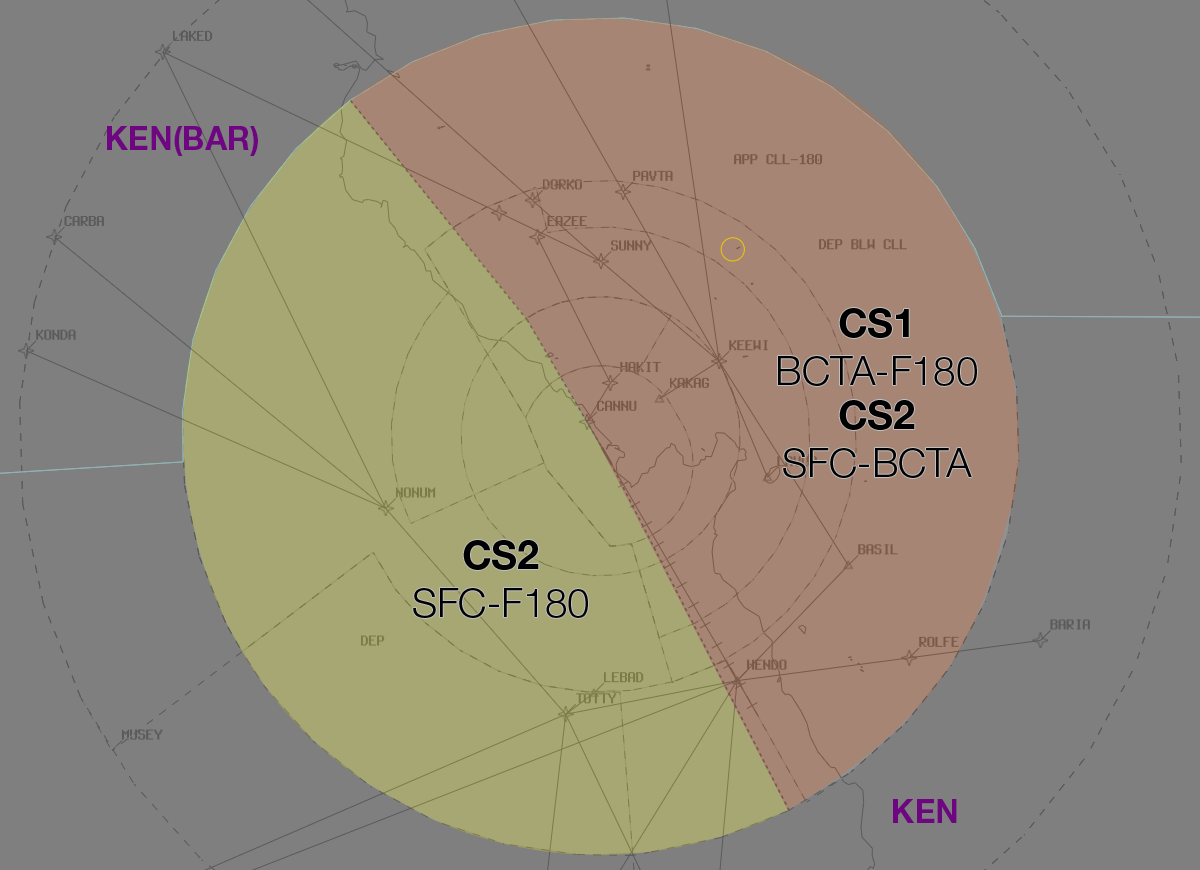
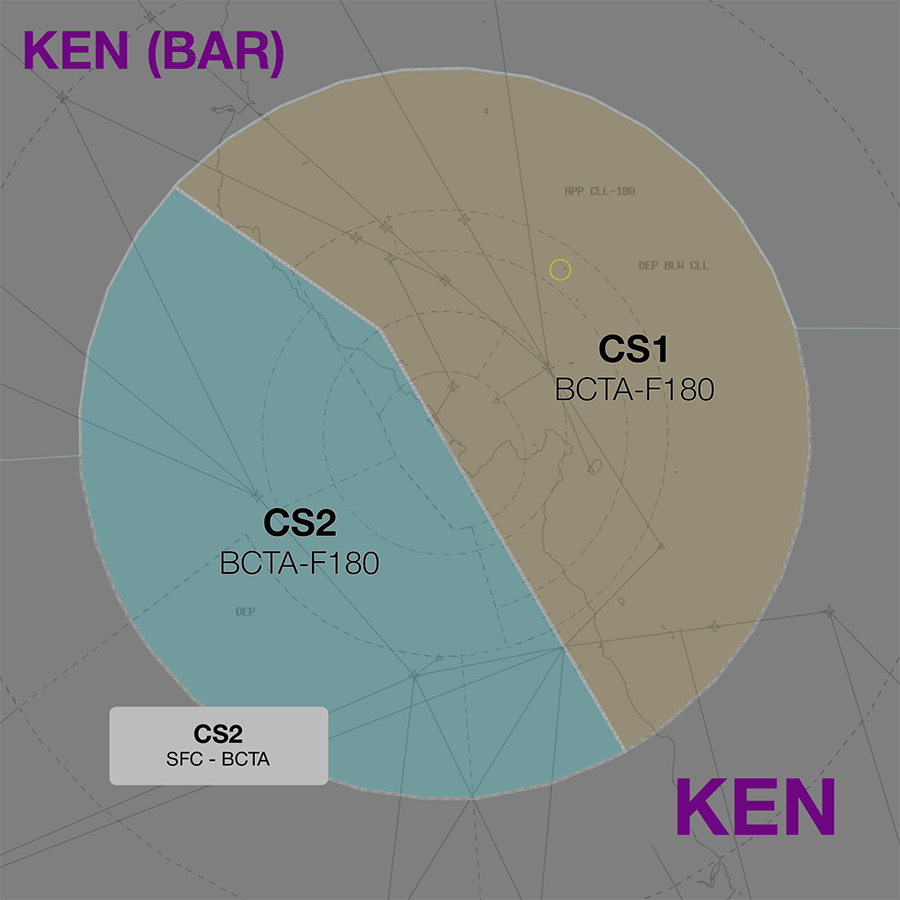
Cairns/KEN

diff --git a/docs/enroute/Brisbane Centre/ARL.md b/docs/enroute/Brisbane Centre/ARL.md
@@ -184,6 +184,49 @@ Aircraft being transferred from the following sectors shall be given STAR Cleara
 | INL, MNN, MDE | ARL | YSSY | |
 | TSN/HWE | OCN | YSSY | |
 
+## Terminal Handover Frequencies
+Aircraft being transferred from enroute to a TCU with multiple frequencies shall be given the frequency for the revelant TCU position.
+
+=== "SY TCU"
+	=== "07AD"
+		<figure markdown>
+		![SY TCU Handover Frequencies - 07AD Mode](../assets/enr-tcu_handovers/sy07ad.png){ width="500" }
+		  <figcaption>SY TCU Handover Frequencies - 07AD Mode</figcaption>
+		</figure>
+		
+	=== "25AD"
+		<figure markdown>
+		![SY TCU Handover Frequencies - 25AD Mode](../assets/enr-tcu_handovers/sy25ad.png){ width="500" }
+		  <figcaption>SY TCU Handover Frequencies - 25AD Mode</figcaption>
+		</figure>
+	=== "16 PROPS"
+		<figure markdown>
+		![SY TCU Handover Frequencies - 16 PROPS Mode](../assets/enr-tcu_handovers/sy16props.png){ width="500" }
+		  <figcaption>SY TCU Handover Frequencies - 16 PROPS Mode</figcaption>
+		</figure>
+	=== "34 PROPS"
+		<figure markdown>
+		![SY TCU Handover Frequencies - 34 PROPS Mode](../assets/enr-tcu_handovers/sy34props.png){ width="500" }
+		  <figcaption>SY TCU Handover Frequencies - 34 PROPS Mode</figcaption>
+		</figure>
+	=== "SODPROPS"
+		<figure markdown>
+		![SY TCU Handover Frequencies - SODPROPS Mode](../assets/enr-tcu_handovers/sysodprops.png){ width="500" }
+		  <figcaption>SY TCU Handover Frequencies - SODPROPS Mode</figcaption>
+		</figure>
+
+
+	| ADES | STAR  | Frequency (Controller) |
+	| ---- | ----- | ---------------------- |
+	| YSSY | BOREE | **124.400** (SAN)      |
+	| YSSY | MARLN | **124.400** (SAN)      |
+	| YSSY | MEPIL | **124.400** (SAN)      |
+	| YSSY | ODALE | **128.300** (SAS)      |
+	| YSSY | RIVET | **128.300** (SAS)      |
+
+	!!! tip
+		The quick reference tables above only include scenarios for which there is [voiceless coordination](#sy-tcu). Refer to the diagram for the appropriate position/frequency for coordination and handoff for all other situations.
+
 ## Coordination
 ### SY TCU
 #### Airspace

diff --git a/docs/enroute/Brisbane Centre/KEN.md b/docs/enroute/Brisbane Centre/KEN.md
@@ -107,6 +107,42 @@ Aircraft being transferred from the following sectors shall be given STAR Cleara
 
 See [Cairns STAR Clearance](#ybcs-star-clearances) for instructions on issuing STAR clearances.
 
+## Terminal Handover Frequencies
+Aircraft being transferred from enroute to a TCU with multiple frequencies shall be given the frequency for the revelant TCU position.
+
+=== "CS TCU"
+	=== "15AD"
+		<figure markdown>
+		![CS TCU Handover Frequencies - 15AD Mode](../assets/enr-tcu_handovers/cs15.png){ width="500" }
+		  <figcaption>CS TCU Handover Frequencies - 15AD Mode</figcaption>
+		</figure>
+		
+		| ADES | STAR  | Transition | Frequency (Controller) |
+		| ---- | ----- | ---------- | ---------------------- |
+		| YBCS | CODIE | ANDOP<br>AVDAN<br>OVLET<br>PUNIT | **126.100** (CS2) |
+		|      |       | LOCKA<br>ZANEY | **118.400** (CS1) |
+		| YBCS | KASPI | ANDOP<br>OVLET<br>PUNIT | **126.100** (CS2) |
+		|      |       | AVDAN<br>LOCKA<br>ZANEY | **118.400** (CS1) |
+		| YBCS | NONUM | **126.100** (CS2)      |
+		| YBCS | UPOLO | **118.400** (CS1)      |
+		
+	=== "33AD"
+		<figure markdown>
+		![CS TCU Handover Frequencies - 33AD Mode](../assets/enr-tcu_handovers/cs33.png){ width="500" }
+		  <figcaption>CS TCU Handover Frequencies - 33AD Mode</figcaption>
+		</figure>
+		
+		| ADES | STAR  | Transition | Frequency (Controller) |
+		| ---- | ----- | ---------- | ---------------------- |
+		| YBCS | HENDO | ANDOP<br>ISNER<br>NORMA<br>OVLET<br>PUNIT<br>VEKBI | **126.100** (CS2) |
+		|      |       | BARIA | **118.400** (CS1) |
+		| YBCS | KEEWI | ANDOP<br>PUNIT<br>VEKBI<br>ISNER  | **126.100** (CS2) |
+		|      |       | AVDAN<br>LOCKA<br>OVLET<br>ZANEY | **118.400** (CS1) |
+		| YBCS | TOTTY | All | **126.100** (CS2) |
+		
+	!!! tip
+		The quick reference tables above only include scenarios for which there is [voiceless coordination](#cs-tcu). Refer to the diagram for the appropriate position/frequency for coordination and handoff for all other situations.
+
 ## Coordination
 ### CS TCU
 #### Airspace

diff --git a/docs/enroute/Brisbane Centre/INL.md b/docs/enroute/Brisbane Centre/INL.md
@@ -284,7 +284,7 @@ Aircraft being transferred from enroute to a TCU with multiple frequencies shall
 		| YBCG | All   | **123.500** (BAC)      |
 
 		!!! tip
-			The quick reference tables above only include scenarios for which there is [voiceless coordination](#sy-tcu). Refer to the diagram for the appropriate position/frequency for coordination and handoff for all other situations.
+			The quick reference tables above only include scenarios for which there is [voiceless coordination](#bn-tcu). Refer to the diagram for the appropriate position/frequency for coordination and handoff for all other situations.
 		
 	=== "19 PROPS"
 		<figure markdown>
@@ -305,7 +305,7 @@ Aircraft being transferred from enroute to a TCU with multiple frequencies shall
 		| YBCG | All   | **123.500** (BAC)      |
 
 		!!! tip
-			The quick reference tables above only include scenarios for which there is [voiceless coordination](#sy-tcu). Refer to the diagram for the appropriate position/frequency for coordination and handoff for all other situations.
+			The quick reference tables above only include scenarios for which there is [voiceless coordination](#bn-tcu). Refer to the diagram for the appropriate position/frequency for coordination and handoff for all other situations.
 		
 	=== "SODPROPS"
 		<figure markdown>
@@ -326,7 +326,7 @@ Aircraft being transferred from enroute to a TCU with multiple frequencies shall
 		| YBCG | All   | **123.500** (BAC)      |
 
 		!!! tip
-			The quick reference tables above only include scenarios for which there is [voiceless coordination](#sy-tcu). Refer to the diagram for the appropriate position/frequency for coordination and handoff for all other situations.
+			The quick reference tables above only include scenarios for which there is [voiceless coordination](#bn-tcu). Refer to the diagram for the appropriate position/frequency for coordination and handoff for all other situations.
 
 ## Coordination
 ### BN TCU
